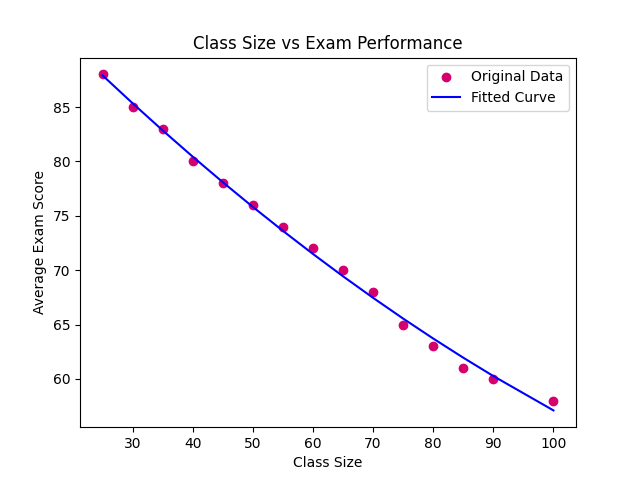
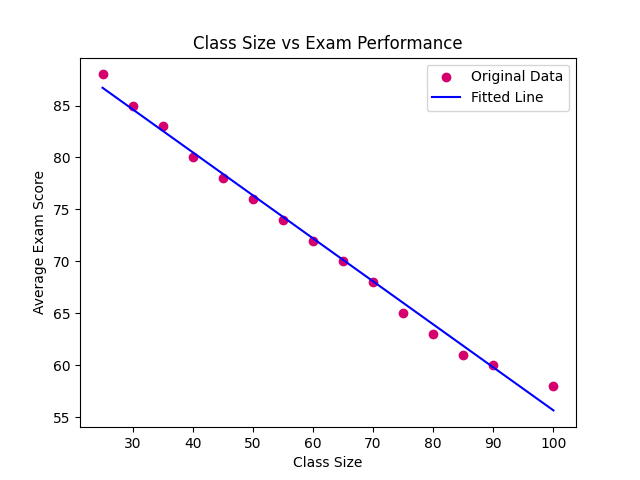
Removed polynomial regression. (Uses Sample Data)

diff --git a/LinearRegression.py b/LinearRegression.py
@@ -16,24 +16,22 @@ Y_std = Y.std()
 X_normalized = (X - X_mean) / X_std
 Y_normalized = (Y - Y_mean) / Y_std
 
-X_poly = torch.cat((X_normalized, X_normalized**2), dim=1)
-
-class PolynomialRegressionModel(torch.nn.Module):
+class LinearRegressionModel(torch.nn.Module):
     def __init__(self):
         super().__init__()
-        self.linear = torch.nn.Linear(2, 1)
+        self.linear = torch.nn.Linear(1, 1)
 
     def forward(self, x):
         return self.linear(x)
 
-model = PolynomialRegressionModel()
+model = LinearRegressionModel()
 
 criterion = torch.nn.MSELoss()
-optimizer = torch.optim.SGD(model.parameters(), lr=0.02)
+optimizer = torch.optim.SGD(model.parameters(), lr=0.001)
 
-epochs = 1500
+epochs = 3500
 for epoch in range(epochs):
-    y_pred = model(X_poly)
+    y_pred = model(X_normalized)
     loss = criterion(y_pred, Y_normalized)
 
     optimizer.zero_grad()
@@ -41,19 +39,15 @@ for epoch in range(epochs):
     optimizer.step()
 
     if epoch % 100 == 0:
-        print(f'Epoch [{epoch}/{epochs}], Loss: {loss.item():.4f}')
+        print(f'Epoch [{epoch}/{epochs}], Loss: {loss.item():.4f}, Weight: {model.linear.weight.item()}, Bias: {model.linear.bias.item()}')
 
 plt.scatter(X.numpy(), Y.numpy(), color='#D5006D', label='Original Data')
 
 with torch.no_grad():
-    sorted_X, sorted_indices = torch.sort(X_normalized, dim=0)
-    sorted_X_poly = torch.cat((sorted_X, sorted_X**2), dim=1)
-    predicted_normalized = model(sorted_X_poly)
-    
-    predicted = predicted_normalized * Y_std + Y_mean
-    sorted_X_actual = sorted_X * X_std + X_mean
+    predicted = model(X_normalized)
+    predicted_denormalized = predicted * Y_std + Y_mean
 
-    plt.plot(sorted_X_actual.numpy(), predicted.numpy(), color='blue', label='Fitted Curve')
+    plt.plot(class_size, predicted_denormalized.numpy(), color='blue', label='Fitted Line')
 
 plt.xlabel('Class Size')
 plt.ylabel('Average Exam Score')
